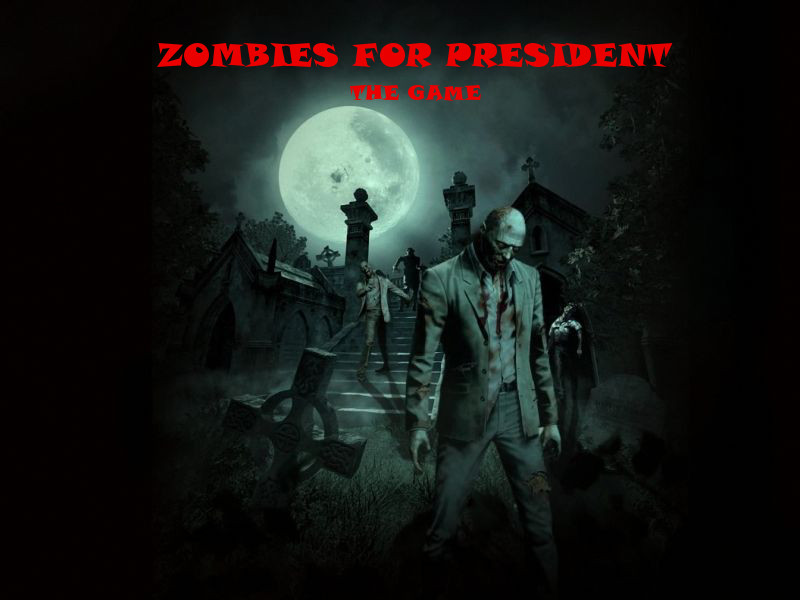
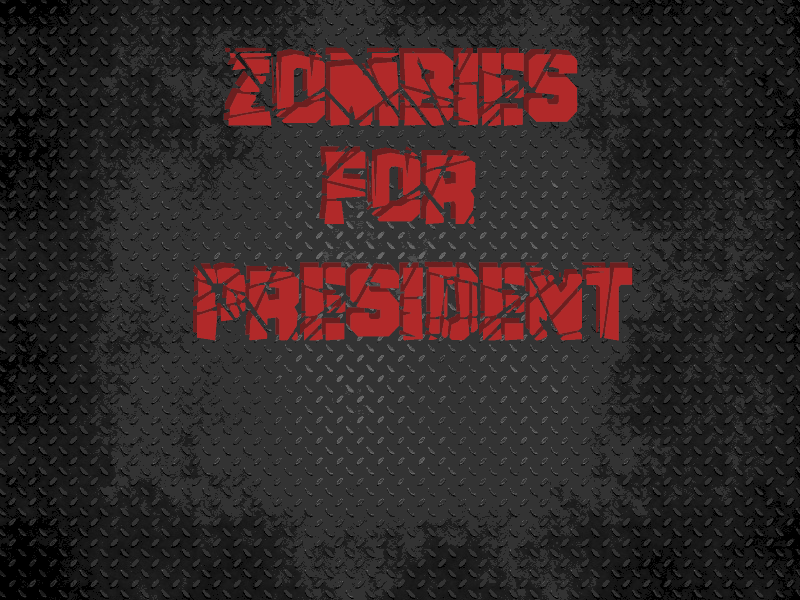
Cambios en algunas imágenes
He visto el foro y un chico puso que le tardaba mucho en cargar el
juego, posiblemente por el peso de las imágenes así que he simplificado
la portada, que ahora pesa bastante menos y ya he puesto un poco más
bonitas las demás.

diff --git a/scenes.js b/scenes.js
@@ -7,25 +7,23 @@ function crearEscenas(Q) {
 	            x: 240, y: 510
 	    }));
 
-	    var btJugar = containerJugar.insert(new Q.UI.Button({ x: 0, y: 40, fill: "#FF0000", label: "Play" })); 
+	    var btJugar = containerJugar.insert(new Q.UI.Button({ x: 0, y: 40, fill: "#b12929", label: "Play" })); 
 
 	    var container1 = stage.insert(new Q.UI.Container({
 	            x: 460 , y: 510
 	    }));
 	 
-	    var btControles = container1.insert(new Q.UI.Button({ x: 0, y: 40, fill: "#FF0000", label: "Controls" })); 
+	    var btControles = container1.insert(new Q.UI.Button({ x: 0, y: 40, fill: "#b12929", label: "Controls" })); 
 
 	    var containerCreditos = stage.insert(new Q.UI.Container({
 	            x: 580 , y: 510
 	    }));
 	 
-	    var btCreditos = containerCreditos.insert(new Q.UI.Button({ x: 0, y: 40, fill: "#FF0000", label: "Creditos" }));        
+	    var btCreditos = containerCreditos.insert(new Q.UI.Button({ x: 0, y: 40, fill: "#b12929", label: "Credits" }));        
 
 	    btJugar.on("click",function() {
 	        Q.clearStages();
 	        Q.stageScene('level1');
-	        //Q.stageScene('level2');
-	        //Q.stageScene('final');
 	    });
 
 	    btControles.on("click",function() {
@@ -49,10 +47,10 @@ function crearEscenas(Q) {
 	    }
 
 	    var container = stage.insert(new Q.UI.Container({
-	            x: 380, y: 450
+	            x: 75, y: 510
 	    }));
 	 
-	    var button = container.insert(new Q.UI.Button({ x: 0, y: 40, fill: "#FF0000", label: "<= Back" })); 
+	    var button = container.insert(new Q.UI.Button({ x: 0, y: 40, fill: "#b12929", label: "<= Back" })); 
 
 	     button.on("click",function() {
 	        Q.clearStages();
